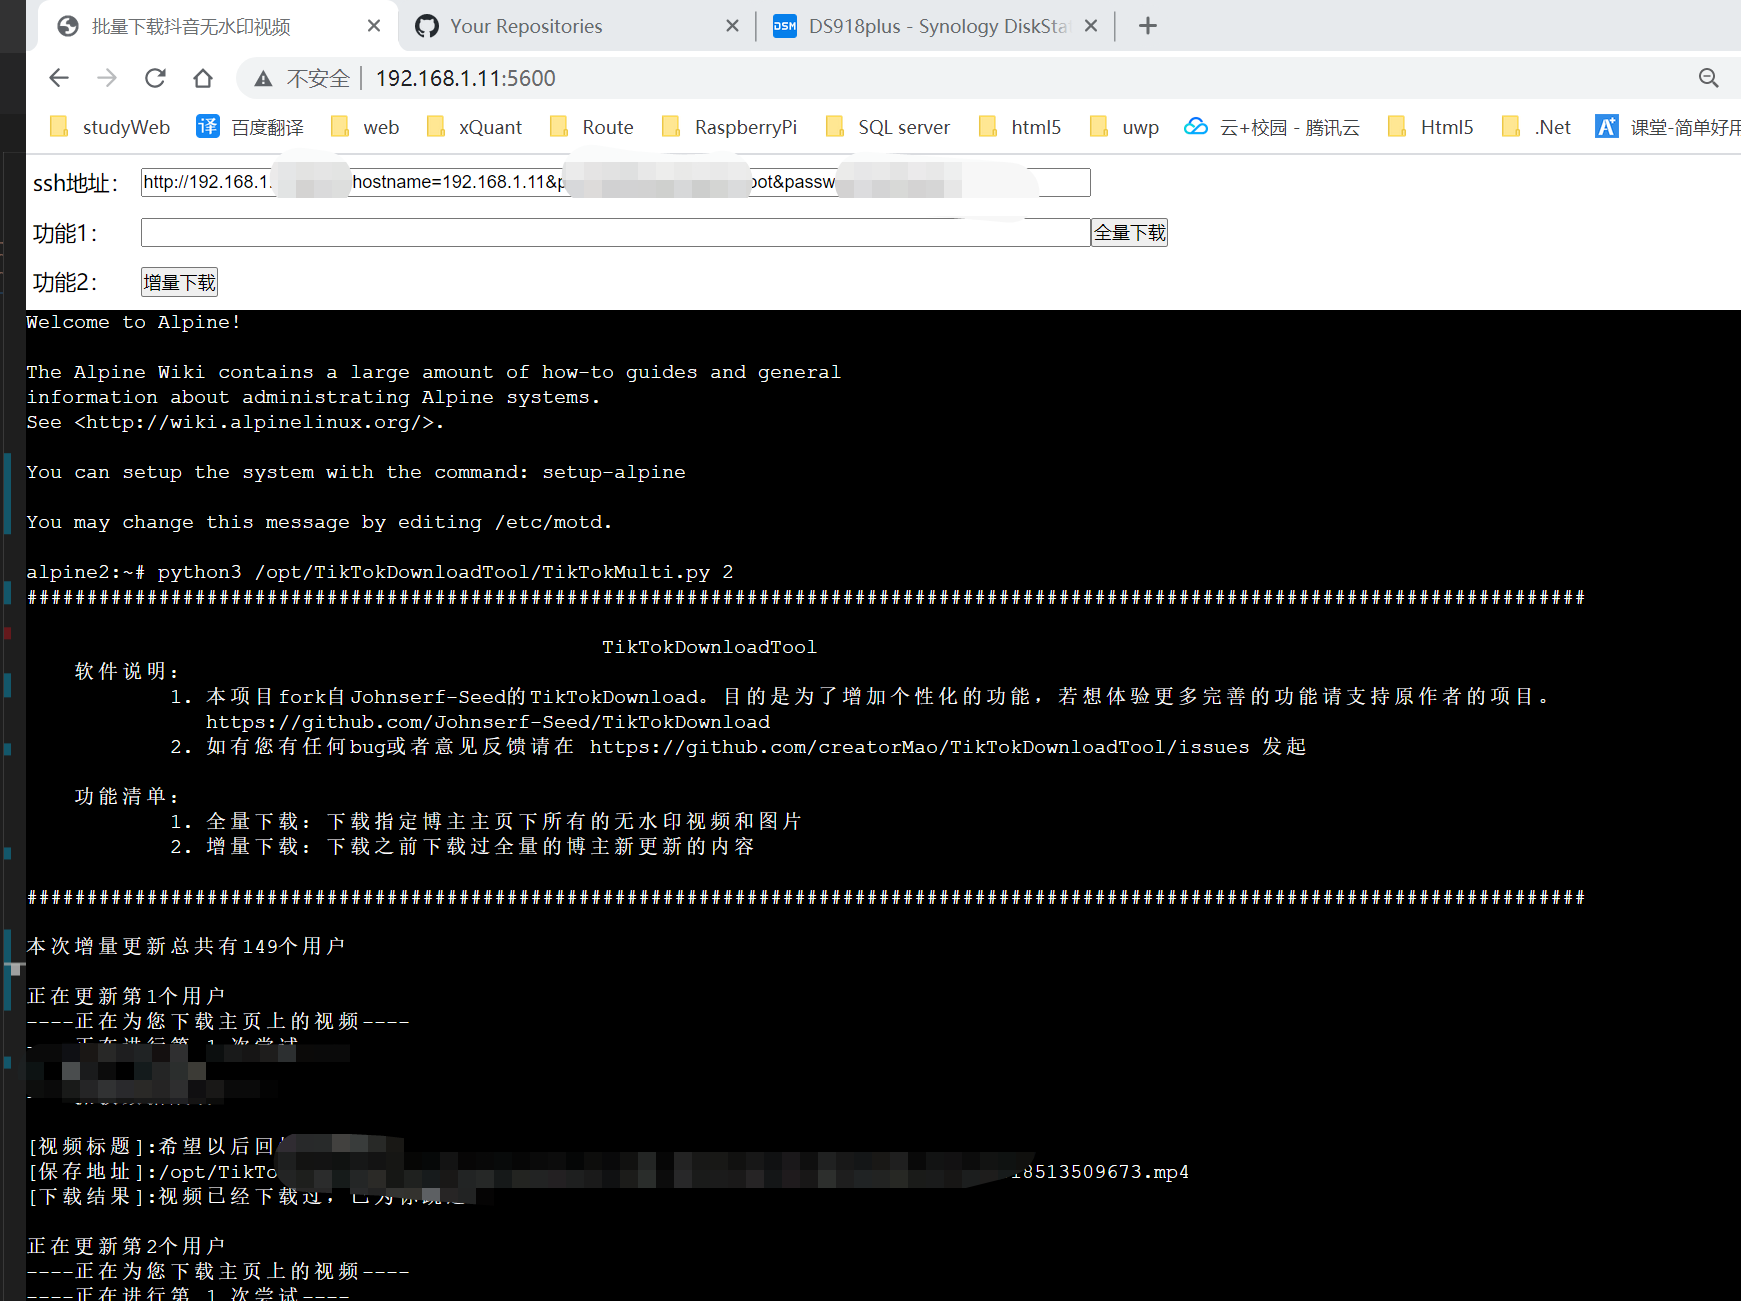
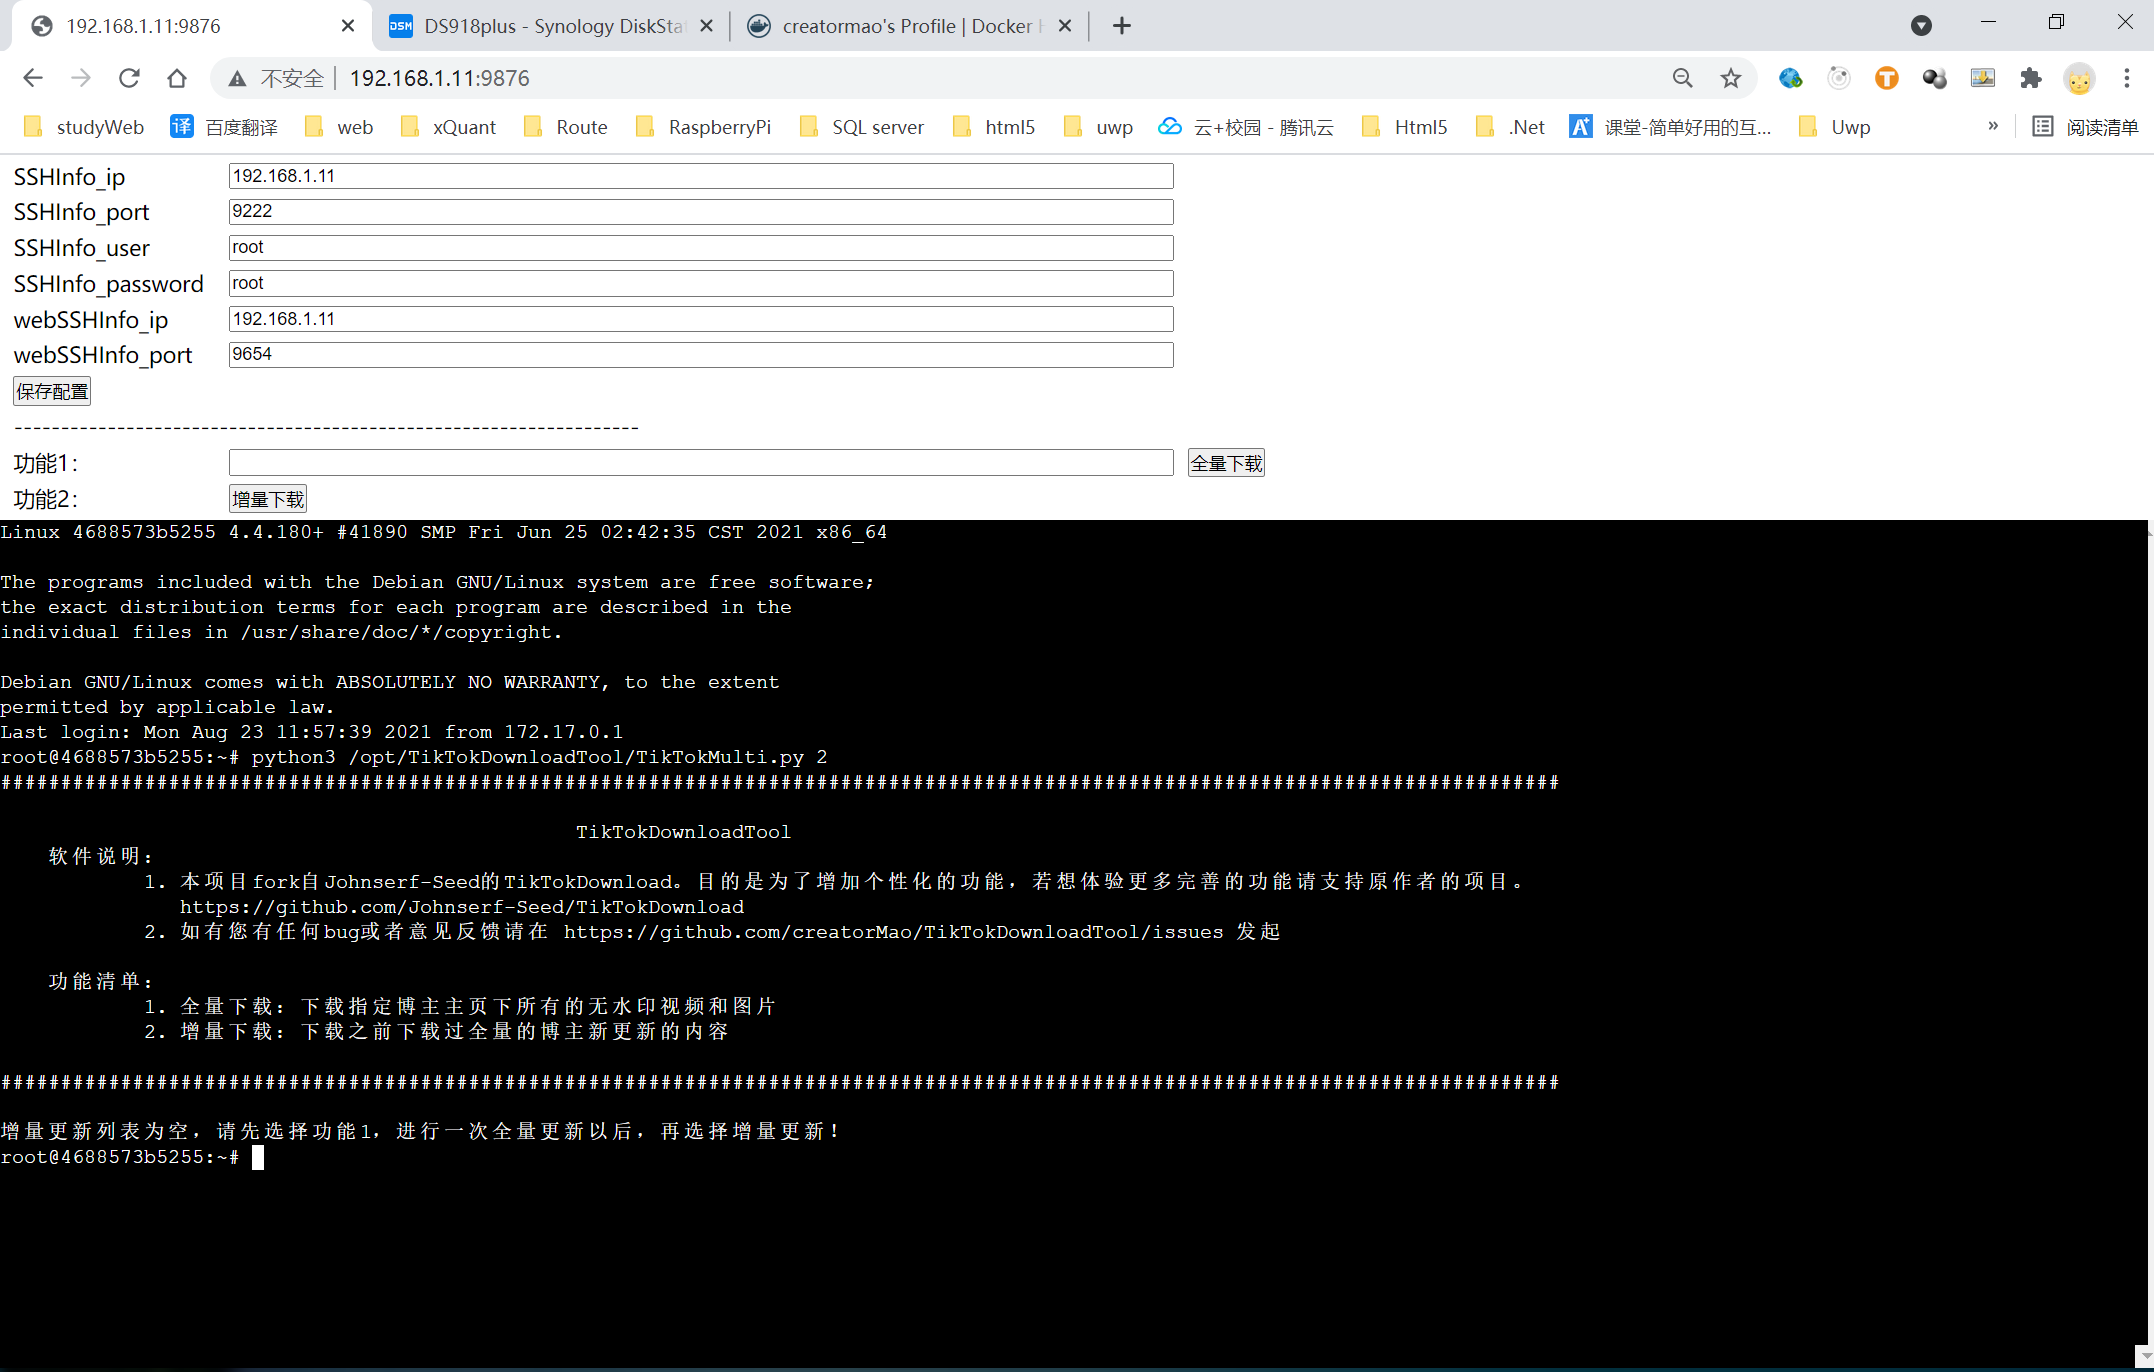
增加docker支持

Changed region(s): [[0.0, 0.0, 1.0, 1.0], [0.6203, 0.1537, 0.6824, 0.1845]]

diff --git a/README.md b/README.md
@@ -29,7 +29,16 @@
 
 
 ## 1. Docker 
-目前只支持源码运行，等功能完善后，再封装docker
+
+~~~
+docker pull creatormao/tiktokdownloadtool:latest
+
+docker run -d -v /volume1/docker/TEST-DOWN:/opt/TikTokDownloadTool/Download --name titokdownload -p 9222:22 -p 9876:8000 -p 9654:8888 creatormao/tiktokdownloadtool:latest sh -c "/etc/init.d/ssh start && /bin/bash & python /opt/TikTokDownloadTool/web/run.py & python /code/run.py"
+~~~
+
+ps: 将  /volume1/docker/TEST-DOWN 改成实际宿主的文件夹，此文件夹用于存放下载的视频
+
+安装完成后，访问: http://宿主机ip:9876
 
 ![web](./Resource/web-download.png)
 
